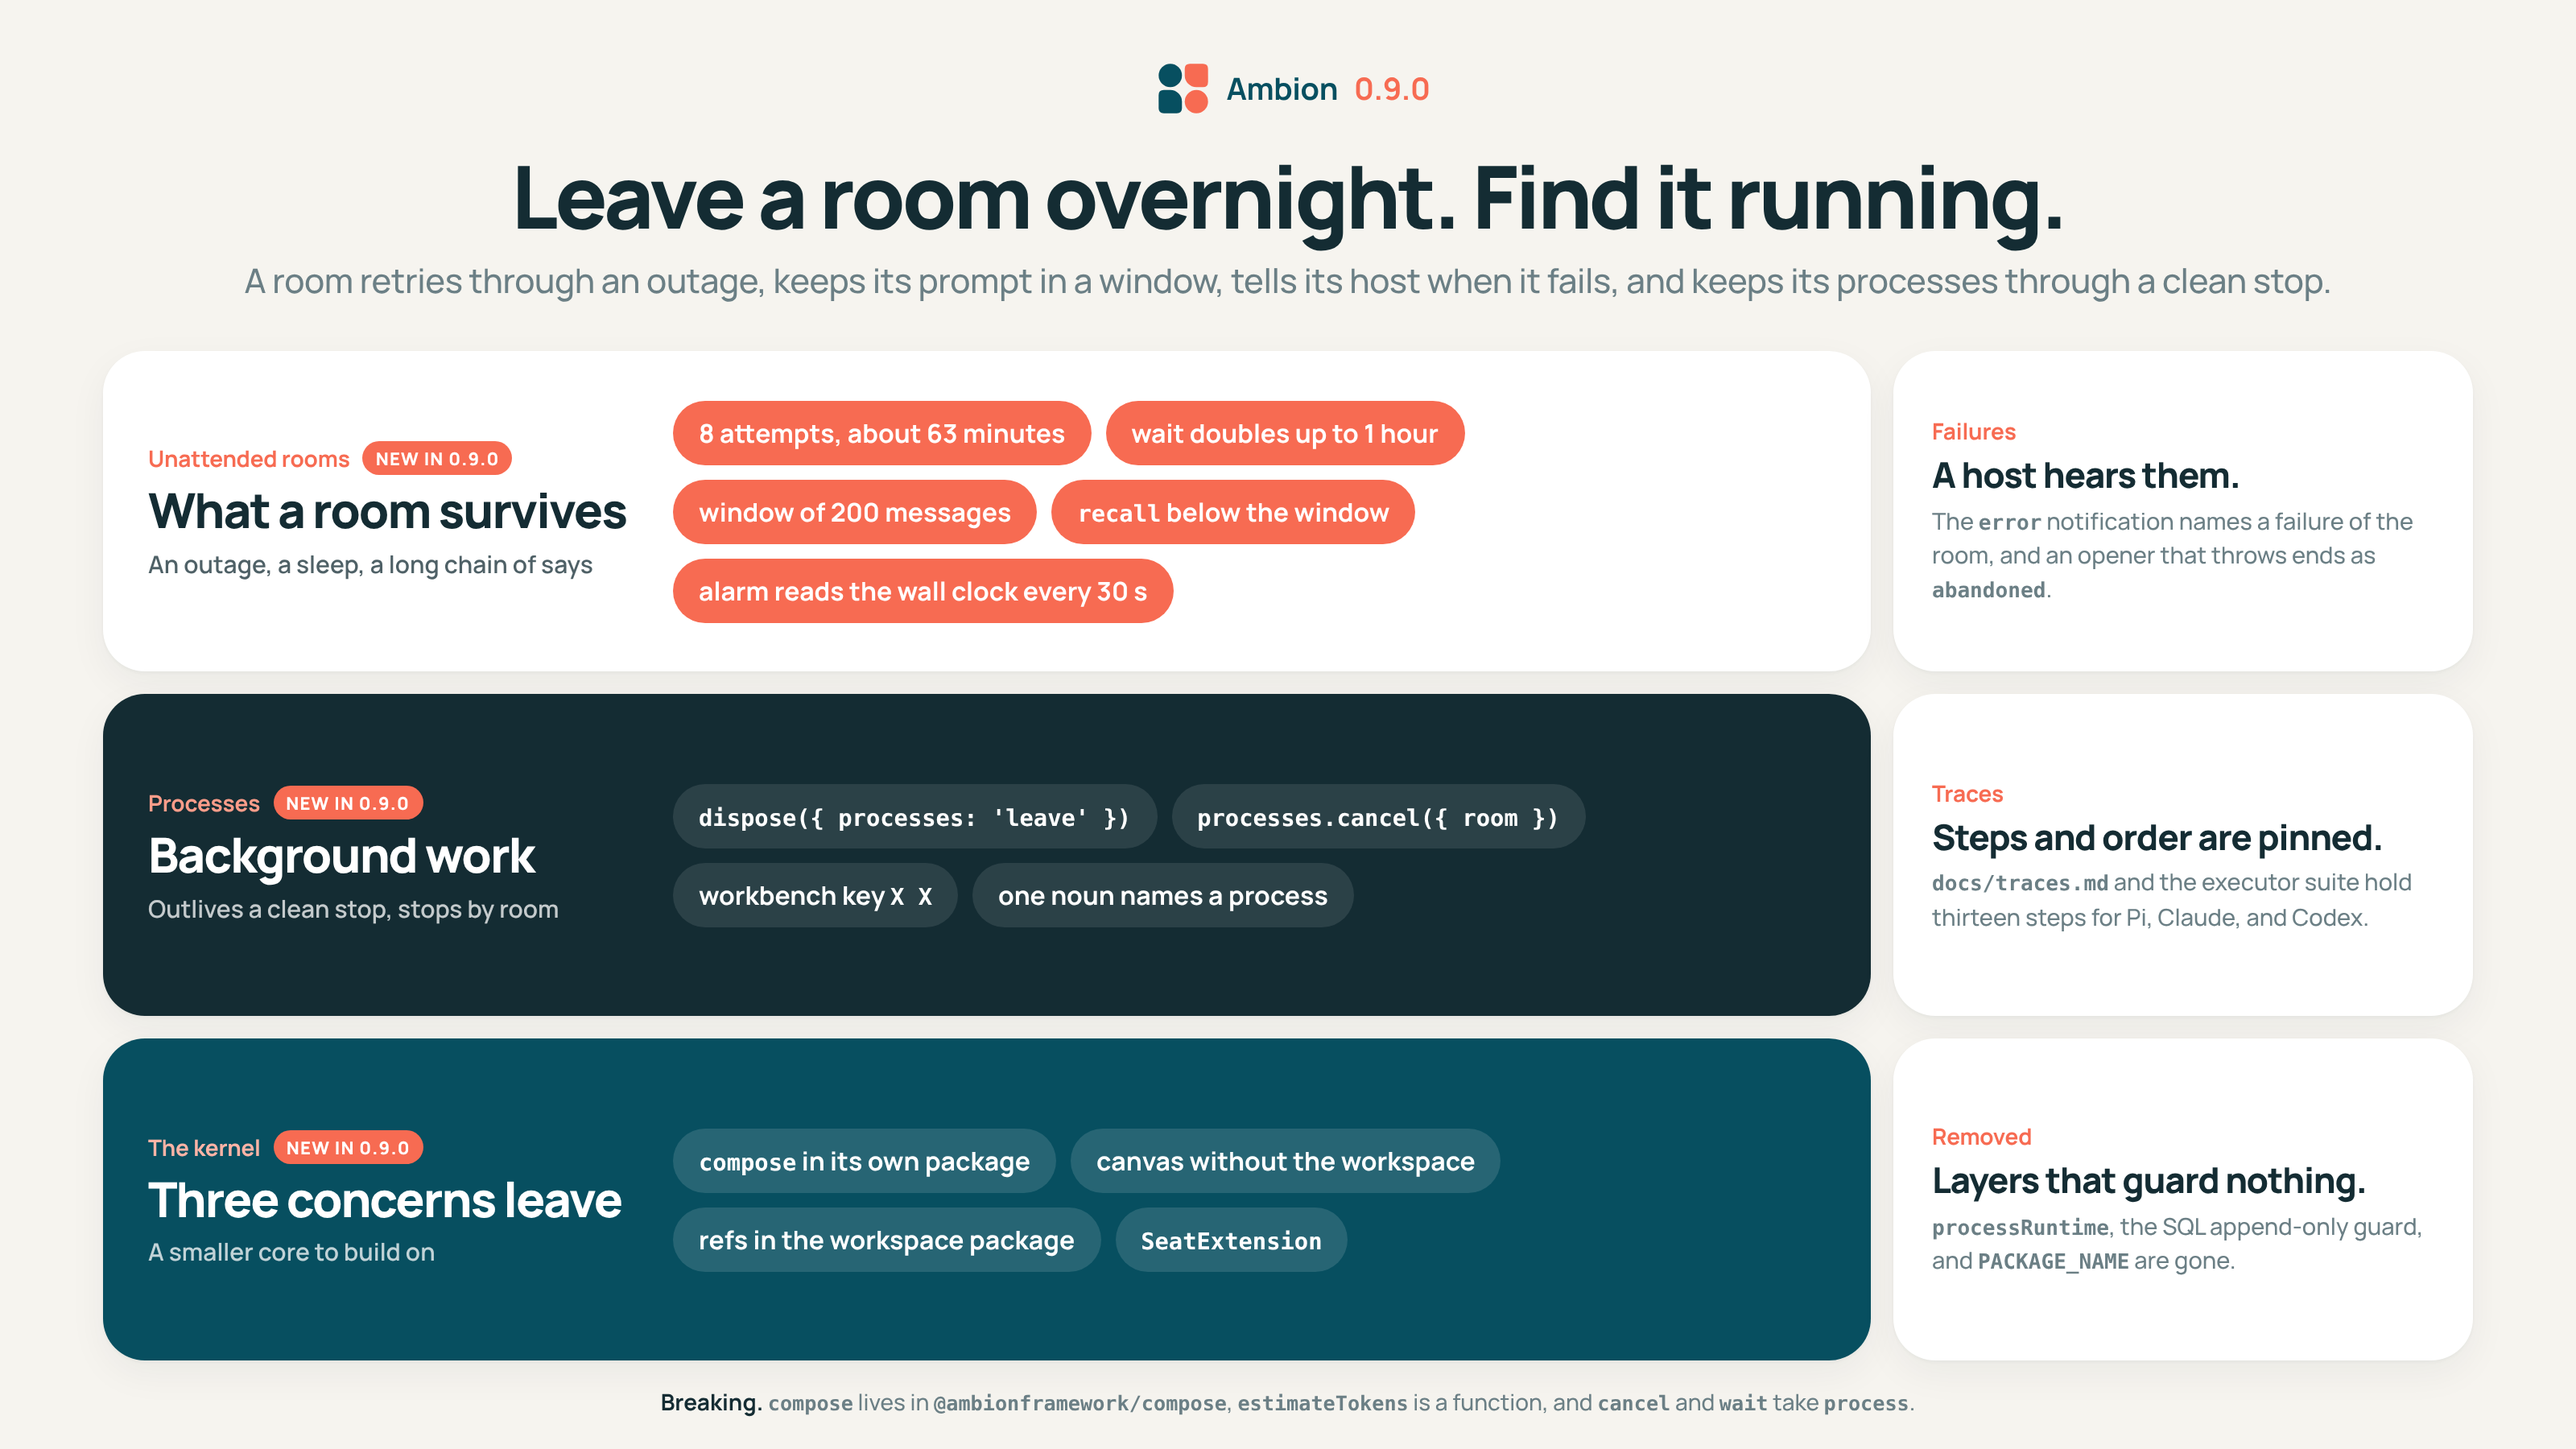
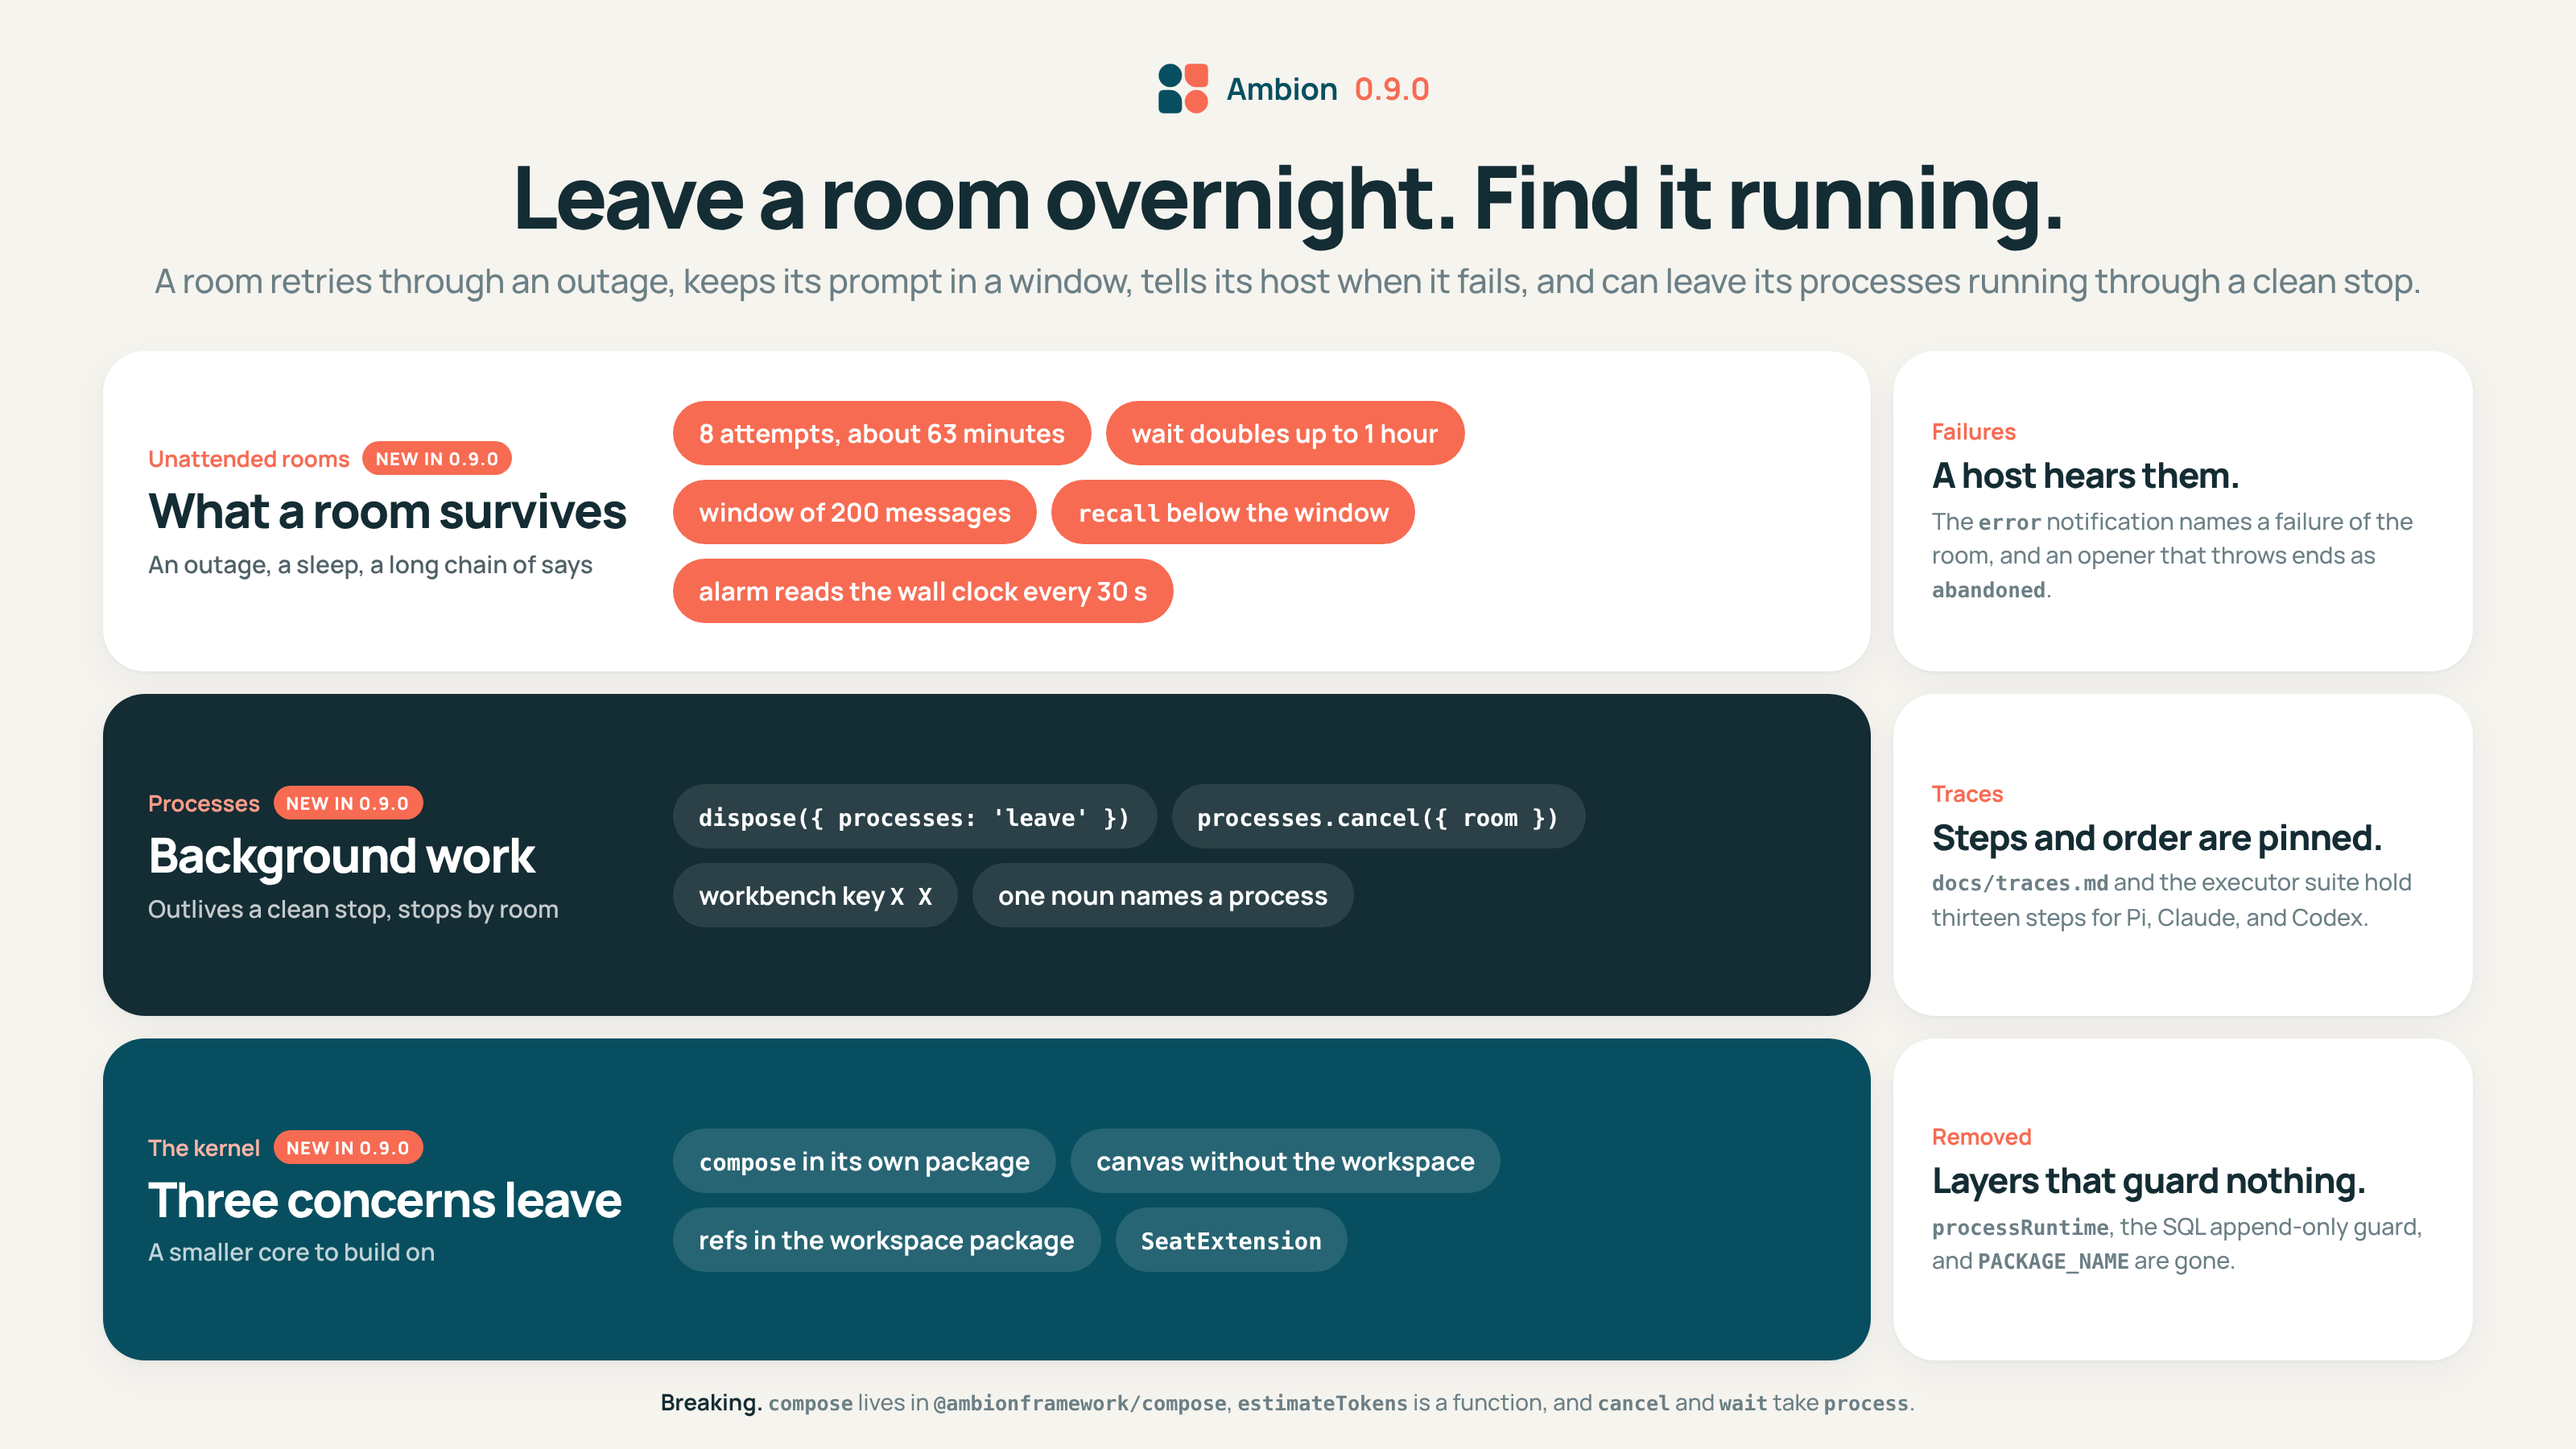
Split the 0.9.0 headline, and align the image with the changelog
Claude-Session: https://claude.ai/code/session_017K7fPCH4MdgZ6cyxokqMG1

Changed region(s): [[0.0625, 0.1867, 0.9375, 0.2178]]

diff --git a/CHANGELOG.md b/CHANGELOG.md
@@ -5,9 +5,9 @@
 <img alt="Ambion 0.9.0: unattended rooms. A person leaves a room overnight and finds it running. Retries: 8 attempts with a wait that doubles up to one hour, about 63 minutes of outage. Prompt: a window of 200 messages beyond the open exchange, and recall below it. Failures: the error notification for a failure of the room, and an opener that throws ends as permanent. Processes: dispose with processes leave, and processes.cancel for a room. Hosts that sleep: the alarm reads the wall clock every 30 seconds. Traces: docs/traces.md and a conformance suite for the steps and their order. Kernel: compose in its own package, a canvas that does not depend on the workspace, and the seat extension. Breaking: compose moves to @ambionframework/compose, processRuntime is gone, the SQL append-only guard is gone, and a process has one noun." src="docs/assets/ambion-0.9.0.png" width="800">
 
 **0.9.0 lets a person leave a room overnight and find it running.** A room
-retries an activation through an outage of about 63 minutes, keeps the prompt
-of an ambient seat in a window, tells its host when it fails, and fires a due
-alarm soon after a host wakes from sleep. A host can leave background
+retries an activation through an outage of about 63 minutes. It keeps the
+prompt of an ambient seat in a window and tells its host when it fails. A due
+alarm fires soon after a host wakes from sleep. A host can leave background
 processes running at a clean stop, and one call cancels every process of a
 room. See [Deployment](docs/deployment.md) and [Processes](docs/processes.md).
 
@@ -15,10 +15,10 @@ room. See [Deployment](docs/deployment.md) and [Processes](docs/processes.md).
 states the thirteen steps, their order, the policy, the limits, and the span
 tree. The executor suite checks them for every executor.
 
-**The kernel sheds three concerns.** The `compose` tool lives in
-`@ambionframework/compose`, the canvas does not depend on the workspace
-package, and the snapshot ref and the commit ref live in the workspace
-package. A `SeatExtension` adds tools over a seat. See
+**Three concerns leave the kernel.** The `compose` tool lives in
+`@ambionframework/compose`. The canvas does not depend on the workspace
+package. The snapshot ref and the commit ref live in the workspace package. A
+`SeatExtension` adds tools over a seat. See
 [Breaking changes](#breaking-changes).
 
 ### Packages
@@ -28,7 +28,9 @@ examples `examples/workbench` and `examples/camera-chat` stay private. Every
 library package needs Node 22.19 or newer. The packages change as follows:
 
 - **Compose.** `@ambionframework/compose` gains the entry points `.` and
-  `/conformance`, besides `/runtime`. It builds no child entry.
+  `/conformance`, besides `/runtime`. It builds no child entry. `typebox`
+  moves to its dependencies, and `@ambionframework/journal` joins its
+  development dependencies.
 - **Workspace.** `@ambionframework/workspace` depends on
   `@ambionframework/compose`.
 - **Canvas.** `@ambionframework/canvas` moves
@@ -42,8 +44,8 @@ library package needs Node 22.19 or newer. The packages change as follows:
 **The executor suite pins the steps of the trace.** The `usage` plan of
 `executorConformance` makes two model requests, `requests` takes the usage of
 each, and the case checks one `usage` step for each request and the sum on the
-release. A new
-capability, `session`, adds a case for one `session` step that names the model
+release. A new capability,
+`session`, adds a case for one `session` step that names the model
 before the first step of the model. A new case checks the `input` steps under
 the `full` policy for every executor. [Traces](docs/traces.md) states the
 steps, their order, the policy, the limits, and the span tree.
@@ -87,7 +89,6 @@ pass that succeeded. An activation whose opener or trace throws ends as a
 permanent failure: `error`, then `abandoned`. The `error` notification takes an
 optional `seat` and `activation`, because a failure of the room has neither.
 `docs/deployment.md` lists the events that a host subscribes to.
-
 
 **The `schedule` tool states what a returned say opens.** The description said
 that the message opens an exchange for the person of the exchange in which the
